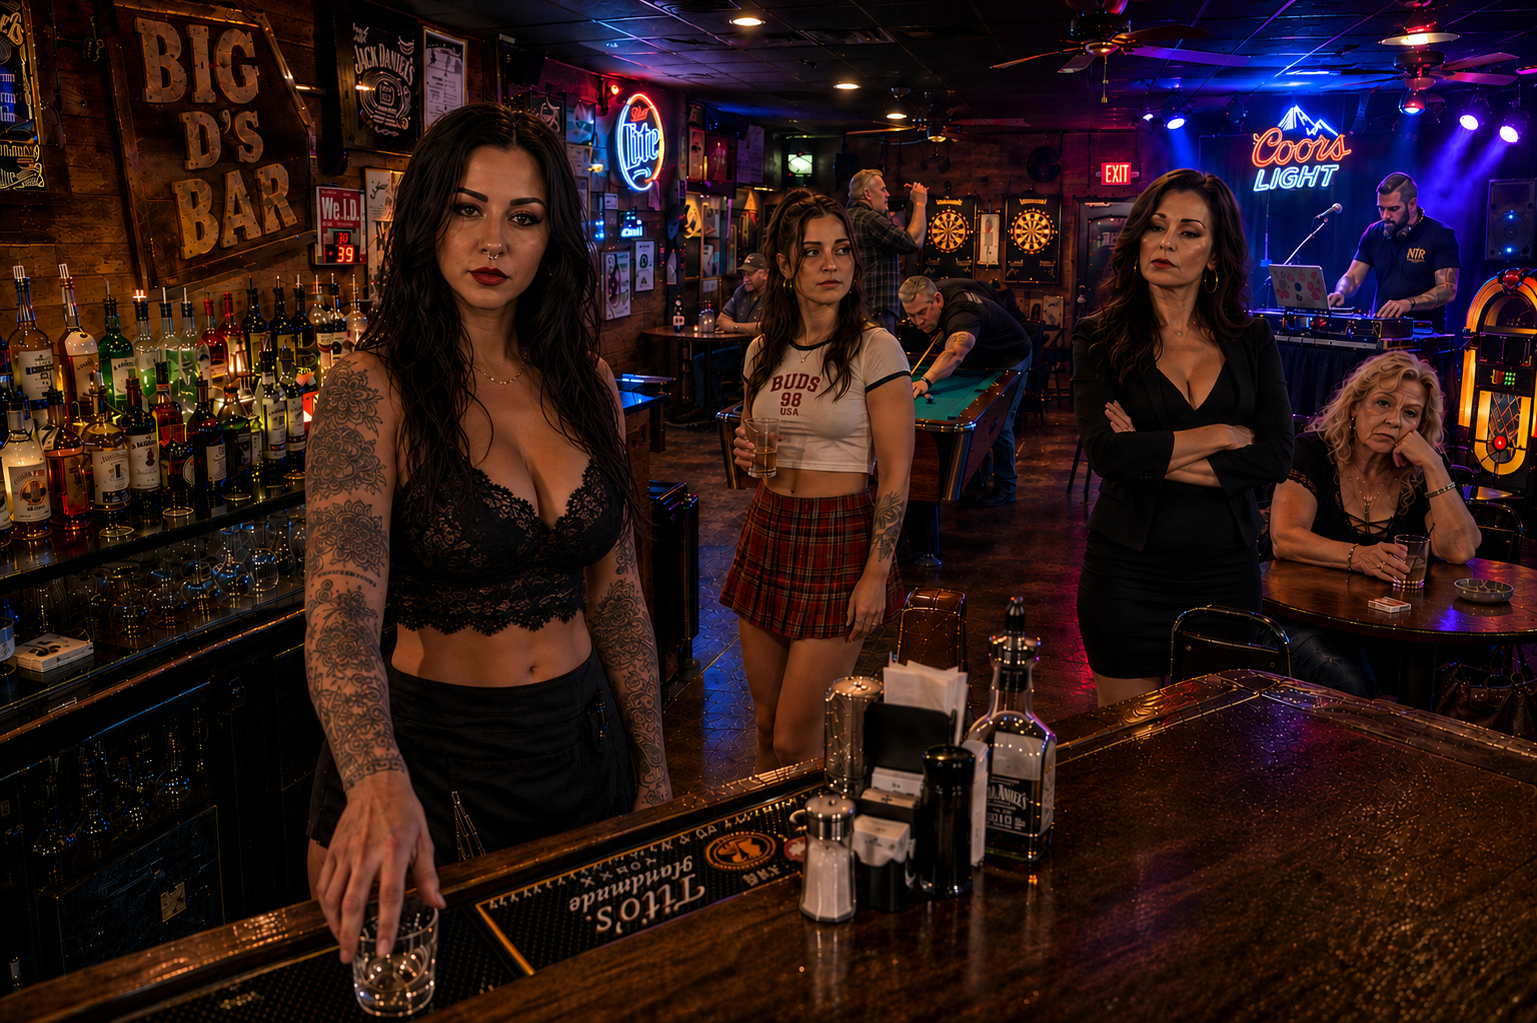
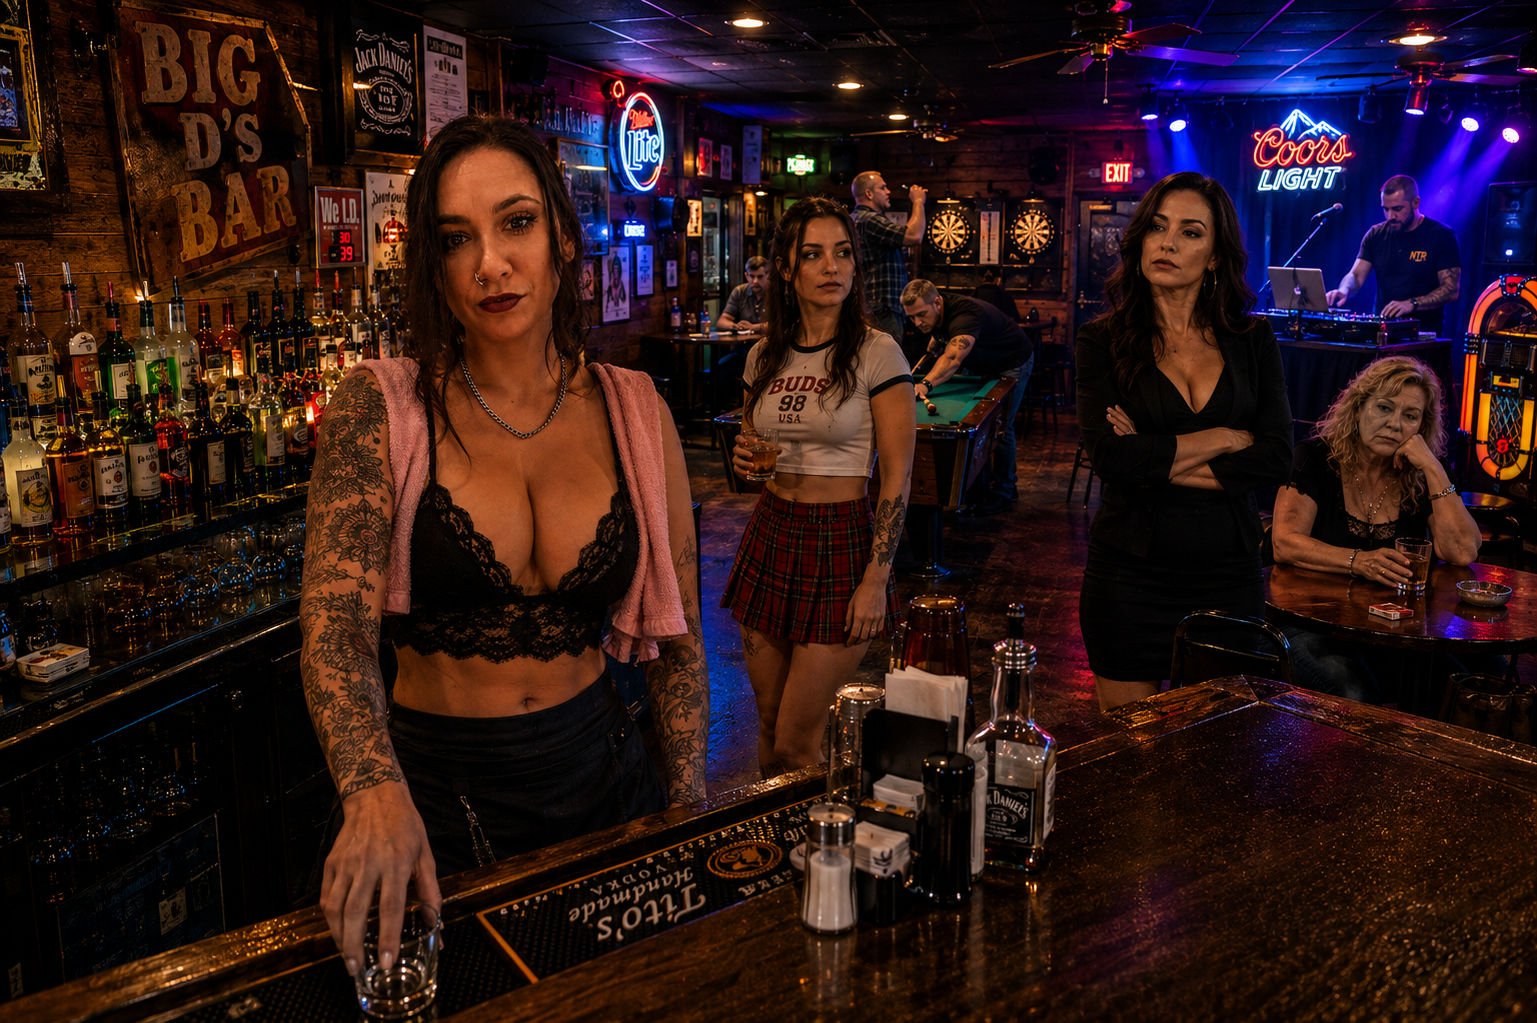
Add pan chevrons and private-interview overlay; fix Jade's face
Jade now has a further-refined face match (direct gaze, pink towel
detail from her original portrait) in the main room scene.

Two new interactions for talking to suspects:
- Pan chevrons: once the camera has zoomed in on someone (see the
  approach-zoom from the previous commit), left/right buttons let the
  player step to the next/previous person without backing out to the
  wide shot first. Scoped to rooms with approachOnClick.
- Private interview overlay: starting a conversation swaps in that
  NPC's own portrait as a full-bleed backdrop and dims/hides
  everyone else, standing in for "step aside to talk alone" without
  needing a dedicated location per suspect. The camera resets to a
  neutral framing for this (killing any in-flight approach-zoom tween
  first, so it doesn't fight the reset) and returns to the same
  zoomed room view — not the wide shot — once the dialog closes, so
  pan chevrons stay usable across a run of conversations.

diff --git a/src/scenes/RoomScene.js b/src/scenes/RoomScene.js
@@ -58,6 +58,17 @@ export default class RoomScene extends Phaser.Scene {
     setCurrentRoom(this.roomKey);
     markRoomVisited(this.roomKey);
 
+    // scene.restart() on every room change destroys the previous scene's
+    // game objects, but this class instance (and its properties) survives —
+    // without this reset, enterInterview would find a truthy but destroyed
+    // interviewBackdrop reference on the very next room and blow up trying
+    // to call setTexture() on it.
+    this.interviewBackdrop = null;
+    this.interviewShade = null;
+    this.spotlightOverlay = null;
+    this._interviewReturnFx = null;
+    this._interviewReturnFy = null;
+
     // For Nikki's scenario, where the death looks like an accident at a
     // glance, the office opens with only a single "first glance" hotspot
     // instead of the full clue set — clicking it is what actually reveals
@@ -121,6 +132,7 @@ export default class RoomScene extends Phaser.Scene {
     // bounds keep panning from scrolling past the edge of the background.
     cam.setBounds(0, 0, this.scale.width, this.scale.height);
     this.setupZoomControls();
+    this.setupPanControls();
 
     cam.fadeIn(400, 5, 5, 8);
 
@@ -261,6 +273,7 @@ export default class RoomScene extends Phaser.Scene {
   talkToNPC(npc) {
     playClick();
     this.hideSpotlight();
+    this.enterInterview(npc);
     markTalkedTo(npc.npcName);
     this.showDialog(npc.npcDisplayName || npc.npcName, npc.npcLine, this.resolvePortrait(npc), this.buildQuestionButtons(npc));
     this.renderUnlockedHotspots();
@@ -562,6 +575,95 @@ export default class RoomScene extends Phaser.Scene {
     this.bg.setDisplaySize(w, h);
   }
 
+  // Swaps in that NPC's own portrait as a full-bleed backdrop for the
+  // conversation — a stand-in for "step away to a private location to talk"
+  // that doesn't need a dedicated interview background per suspect: everyone
+  // else in the room (their markers, the shared scene) fades out, leaving
+  // just this person's own photo behind the dialog, like they've pulled the
+  // player aside. exitInterview (called from closeDialog) undoes all of it.
+  enterInterview(npc) {
+    const key = npc.npcPortraitKey;
+    if (!key || !this.hasRealAsset(key)) return;
+
+    const w = this.scale.width, h = this.scale.height;
+    const cam = this.cameras.main;
+    // talkToNPC fires right after approachPoint kicks off its zoom tween —
+    // that tween hasn't applied anything yet (Phaser tweens start on the
+    // next update, not the frame they're created), but it's still running
+    // and would spend the next 450ms fighting the direct zoom assignment
+    // below, slowly dragging the portrait's zoom back toward 1.9 mid-
+    // conversation. Killing it first makes the reset land immediately and
+    // stay put.
+    this.tweens.killTweensOf(cam);
+    // Remembered so exitInterview can zoom back in on this same person in
+    // the room (not their portrait) once the dialog closes, rather than
+    // resetting all the way out to the wide shot — closing a conversation
+    // should leave the player still "standing there", free to pan straight
+    // to whoever's next instead of re-approaching from scratch every time.
+    this._interviewReturnFx = npc.cfgFx;
+    this._interviewReturnFy = npc.cfgFy;
+    cam.zoom = 1;
+    cam.centerOn(w / 2, h / 2);
+
+    if (!this.interviewBackdrop) {
+      // Origin biased toward the top: these portraits are bust shots with
+      // the face in the upper third, and cover-fitting a taller-than-canvas
+      // photo would otherwise crop evenly top/bottom — centering the crop
+      // on the chest instead of the face.
+      this.interviewBackdrop = this.add.image(w / 2, h / 2, key).setOrigin(0.5, 0.22);
+      this.interviewBackdrop.setDepth(400);
+      this.interviewBackdrop.setAlpha(0);
+      this.interviewShade = this.add.rectangle(w / 2, h / 2, w, h, 0x0a0806, 0.45);
+      this.interviewShade.setDepth(401);
+      this.interviewShade.setAlpha(0);
+    } else {
+      this.interviewBackdrop.setTexture(key);
+    }
+    // Cover-fit: portraits are taller than the 3:2 canvas, so match on
+    // whichever axis would otherwise letterbox and let the other overflow —
+    // crops the sides rather than showing bars around a floating photo.
+    const img = this.textures.get(key).getSourceImage();
+    const scale = Math.max(w / img.width, h / img.height);
+    this.interviewBackdrop.setDisplaySize(img.width * scale, img.height * scale);
+    this.interviewBackdrop.setPosition(w / 2, h * 0.22);
+
+    this.hideSpotlight();
+    this.npcs.forEach(n => n.setVisible(false));
+    this.evidenceMarkers.forEach(e => e.marker.setVisible(false));
+    if (this.firstGlanceMarker) this.firstGlanceMarker.setVisible(false);
+
+    this.tweens.add({ targets: [this.interviewBackdrop, this.interviewShade], alpha: { from: 0, to: 1 }, duration: 250 });
+  }
+
+  exitInterview() {
+    if (!this.interviewBackdrop) return;
+    // Only set while a conversation (not a hotspot examine) is the reason
+    // this backdrop exists — closing a hotspot's dialog re-runs this same
+    // cleanup (interviewBackdrop persists, hidden, from an earlier chat)
+    // but shouldn't touch the camera, since that hotspot's own approachPoint
+    // already left it exactly where it should be.
+    if (this._interviewReturnFx != null) {
+      // Only re-approach in rooms that use approachPoint/pan chevrons in
+      // the first place (the crowded main room) — elsewhere, zooming back
+      // in after a chat nobody asked to zoom into would just be a jarring
+      // camera move with no chevrons to make use of it. Those rooms' camera
+      // is already correctly at zoom 1 from enterInterview's reset.
+      if (this.roomConfig.approachOnClick) this.panToPoint(this._interviewReturnFx, this._interviewReturnFy);
+      this._interviewReturnFx = null;
+      this._interviewReturnFy = null;
+    }
+    this.tweens.add({
+      targets: [this.interviewBackdrop, this.interviewShade],
+      alpha: 0,
+      duration: 200,
+      onComplete: () => {
+        this.npcs.forEach(n => n.setVisible(true));
+        this.evidenceMarkers.forEach(e => e.marker.setVisible(true));
+        if (this.firstGlanceMarker) this.firstGlanceMarker.setVisible(true);
+      }
+    });
+  }
+
   // A dedicated in-game zoom, rather than relying on the browser's own
   // pinch-zoom: that's technically available but easy to miss entirely in
   // something that reads as a game rather than a web page, and zooming the
@@ -579,6 +681,7 @@ export default class RoomScene extends Phaser.Scene {
       cam.zoom = Phaser.Math.Clamp(z, ZOOM_MIN, ZOOM_MAX);
       if (cam.zoom <= ZOOM_MIN + 0.001) cam.centerOn(this.scale.width / 2, this.scale.height / 2);
       this.updateZoomButtonState();
+      this.updatePanControlsVisibility();
     };
 
     // .onclick (not addEventListener) deliberately — these DOM buttons
@@ -664,6 +767,8 @@ export default class RoomScene extends Phaser.Scene {
     npc.npcName = cfg.name;
     npc.npcLine = cfg.line;
     npc.npcPortraitKey = cfg.portraitKey;
+    npc.cfgFx = cfg.fx;
+    npc.cfgFy = cfg.fy;
     const matched = CHARACTERS.find(c => c.name === cfg.name);
     npc.answers = matched?.answers;
     // Separate from npcName, which stays the fixed internal identifier every
@@ -823,11 +928,69 @@ export default class RoomScene extends Phaser.Scene {
     if (!this.roomConfig.approachOnClick) return;
     const cam = this.cameras.main;
     if (cam.zoom > 1.01) return;
+    this.panToPoint(fx, fy);
+  }
+
+  // The actual camera move, shared by approachPoint (first click, from fully
+  // zoomed out) and the pan chevrons (stepping between people while already
+  // zoomed in) — kept separate from approachPoint so the chevrons can move
+  // the camera regardless of current zoom, while a stray click elsewhere in
+  // the room still respects "only approach from zoomed-out".
+  panToPoint(fx, fy) {
+    const cam = this.cameras.main;
     const p = this.pointToScene(fx, fy);
     this.tweens.add({ targets: cam, zoom: 1.9, duration: 450, ease: 'Sine.easeOut' });
     cam.pan(p.x, p.y, 450, 'Sine.easeOut');
     this.updateZoomButtonState();
-    this.time.delayedCall(460, () => this.updateZoomButtonState());
+    // cam.zoom only reaches 1.9 once the tween above finishes — checking
+    // visibility synchronously here would still see the pre-tween value and
+    // hide the chevrons right after showing them, so it's rechecked once
+    // the animation has actually landed.
+    this.time.delayedCall(460, () => { this.updateZoomButtonState(); this.updatePanControlsVisibility(); });
+    if (this.panTargets && this.panTargets.length) {
+      let best = 0, bestDist = Infinity;
+      this.panTargets.forEach((t, i) => {
+        const d = Math.hypot(t.fx - fx, t.fy - fy);
+        if (d < bestDist) { bestDist = d; best = i; }
+      });
+      this.panIndex = best;
+    }
+    this.updatePanControlsVisibility();
+  }
+
+  // Builds the ordered list of people the pan chevrons step between (left to
+  // right across the room) and wires the buttons up — only for rooms that
+  // opt in via approachOnClick, since a single-NPC room has nothing to pan
+  // between.
+  setupPanControls() {
+    const cfg = this.roomConfig;
+    this.panTargets = cfg.approachOnClick
+      ? (cfg.npcs || []).filter(n => n.bakedIntoScene).map(n => ({ fx: n.fx, fy: n.fy })).sort((a, b) => a.fx - b.fx)
+      : [];
+    this.panIndex = -1;
+
+    const prevBtn = document.getElementById('panPrevBtn');
+    const nextBtn = document.getElementById('panNextBtn');
+    if (prevBtn) prevBtn.onclick = () => this.stepPan(-1);
+    if (nextBtn) nextBtn.onclick = () => this.stepPan(1);
+    this.updatePanControlsVisibility();
+  }
+
+  stepPan(delta) {
+    if (!this.panTargets || !this.panTargets.length) return;
+    playClick();
+    const from = this.panIndex >= 0 ? this.panIndex : 0;
+    const next = (from + delta + this.panTargets.length) % this.panTargets.length;
+    const target = this.panTargets[next];
+    this.hideSpotlight();
+    this.panToPoint(target.fx, target.fy);
+  }
+
+  updatePanControlsVisibility() {
+    const panControls = document.getElementById('panControls');
+    if (!panControls) return;
+    const show = this.roomConfig.approachOnClick && this.panTargets && this.panTargets.length > 1 && this.cameras.main.zoom > 1.01;
+    panControls.classList.toggle('visible', !!show);
   }
 
   isDialogOpen() {
@@ -906,6 +1069,7 @@ export default class RoomScene extends Phaser.Scene {
     clearInterval(this._typeInterval);
     this._typeInterval = null;
     this.dialogEl.style.display = 'none';
+    this.exitInterview();
     this.renderTalkedToPanel();
     if (this._afterDialogClose) {
       const cb = this._afterDialogClose;

diff --git a/index.html b/index.html
@@ -397,6 +397,23 @@
   #zoomControls button:disabled{ opacity:.35; cursor:not-allowed; }
   #zoomControls button:disabled:hover{ border-color:var(--line); color:var(--ink-soft); }
 
+  /* --- Pan chevrons: only shown once approachPoint has zoomed the camera in
+     on a crowded room (see rooms.js's approachOnClick), letting the player
+     shift to the next/previous person without backing out to the wide shot
+     first. Bottom-center so they never fight zoomControls (left edge) or
+     talkedToPanel (right edge) for space. --- */
+  #panControls{
+    position:absolute; left:50%; bottom:58px; transform:translateX(-50%);
+    display:none; gap:10px; pointer-events:auto; z-index:5;
+  }
+  #panControls.visible{ display:flex; }
+  #panControls button{
+    width:38px; height:38px; font-size:20px; line-height:1;
+    background:rgba(20,18,15,0.8); border:1px solid var(--line); color:var(--ink-soft);
+    border-radius:3px; cursor:pointer; font-family:'Lora', Georgia, serif;
+  }
+  #panControls button:hover{ border-color:var(--neon-pink); color:var(--neon-pink); }
+
   /* --- Quick-retalk sidebar: only people already talked to, minus anyone
      physically standing in the current room (they're already clickable
      there). Hidden while a dialog is open so it never overlaps it. --- */
@@ -439,6 +456,8 @@
     #actionButtons{ bottom:8px; right:8px; gap:5px; }
     #actionButtons button{ font-size:10px; padding:5px 8px; }
     #progressBadge{ bottom:8px; left:8px; font-size:10px; padding:4px 8px; }
+    #panControls{ bottom:46px; gap:6px; }
+    #panControls button{ width:32px; height:32px; font-size:16px; }
   }
 
   /* --- Notebook --- */
@@ -679,6 +698,10 @@
       <div id="zoomControls">
         <button id="zoomInBtn" aria-label="Zoom in" title="Zoom in">+</button>
         <button id="zoomOutBtn" aria-label="Zoom out" title="Zoom out" disabled>−</button>
+      </div>
+      <div id="panControls">
+        <button id="panPrevBtn" aria-label="Look at the previous person" title="Look left">‹</button>
+        <button id="panNextBtn" aria-label="Look at the next person" title="Look right">›</button>
       </div>
       <div id="actionButtons">
         <button id="caseFileBtn">🗎 Case File</button>
